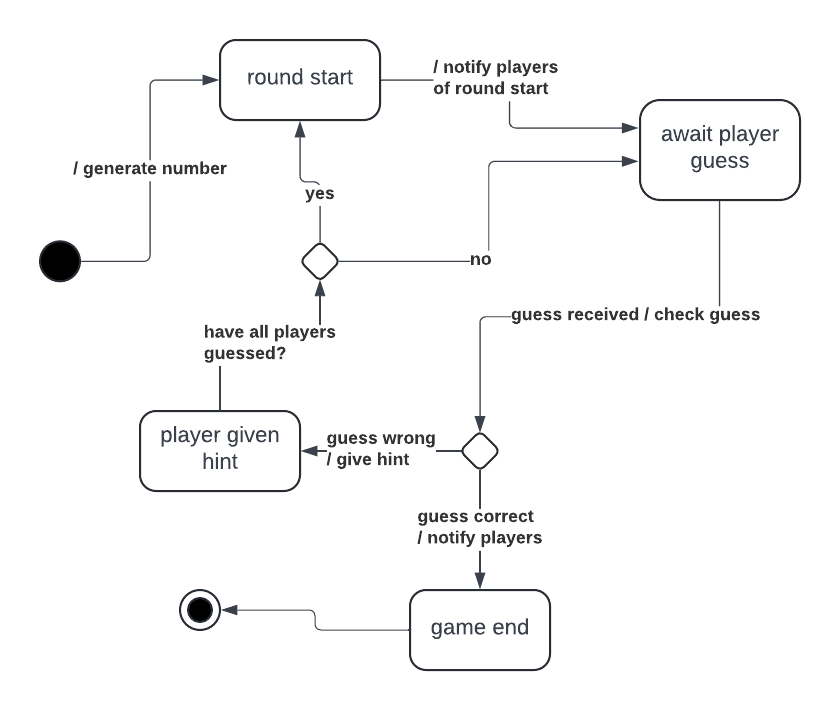
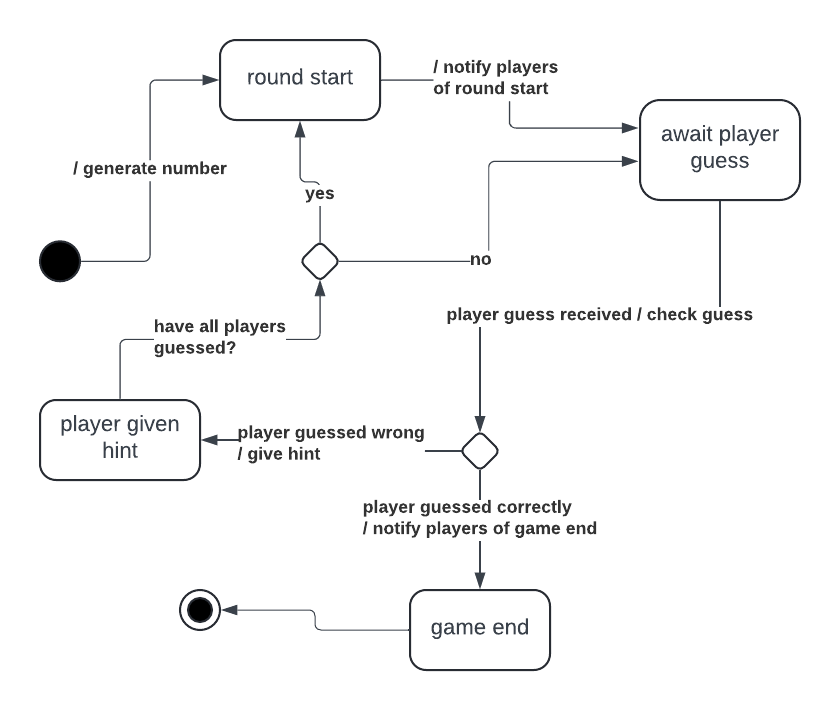
deadlocks fixed, updated script, updated report

diff --git a/Assignment-03/part3/doc/report/main.tex b/Assignment-03/part3/doc/report/main.tex
@@ -51,7 +51,7 @@ Andrea Biagini
 
 \tableofcontents
 \listoffigures
-\listoftables
+% \listoftables
 
 \newpage
 \pagenumbering{arabic} %reset numbering to normal for the main content
@@ -137,10 +137,22 @@ The player channels receive messages in three different forms:
 Where \verb|<hint>| is the hint from the oracle and can assume the value of \verb|higher| or \verb|lower| 
  and \verb|<playerStatus>| communicates to the player if they are the winner or not and can assume the value of \verb|winner| or \verb|loser|.
 
-\section{Deadlock preventions}
+\chapter{Deadlock preventions}
 
 Given that a message might be sent on a channel when no routine is listening on that channel, to prevent deadlocks and message loss, the channels have
  been initialized as buffered channels.
+
+A previous player finite state machine presented a deadlock opportunity:
+
+\begin{figure}
+    \centering
+    \includegraphics{playerwrongSD.png}
+    \caption{previous flawed state diagram of a player}
+    \label{fig:playerwrongSD}
+\end{figure}
+
+With this beheviour once the player had attempted a guess, it no longer listened for the game over message. This made it so that a player could entries
+ deadlock when the game ended. The improved design (\ref{fig:playerSD}) fixed this flaw.
 
 \chapter{Usage}
 The program can be run from the command line using the command:
@@ -157,7 +169,7 @@ Where \verb|<nPlayers>| is the number of players.
 
 Where \verb|<maxValue>| is the max value for the number to be guessed.
 
-The program can also be run using either methods by running the given bash script:
+The program can also be run using either methods by executing the given bash script:
 \begin{lstlisting}
     $ ./runGame
 \end{lstlisting}
@@ -166,8 +178,12 @@ The program can also be run using either methods by running the given bash scrip
 \end{lstlisting}
 
 \chapter{Conclusions}
-The go routine and channel constructs of the go language give supply an easy to use architecture for message oriented concurrency. Aided by the efficent Implementation
- of the go language, these simple yet powerfull abstractions allow to easily define complex beheviours in an intuitive and readable manner.
+The go routine and channel constructs of the go language give supply an easy to use architecture for message oriented concurrency. Aided by the efficent
+ implementation of the go language, these simple yet powerfull abstractions allow to easily define complex beheviours in an intuitive
+ and readable manner. 
+
+A more refined version of this game could take into account deeper syncronization requirements, such as imposing that the players should all
+ be ready to submit their guess at the same time or that the player's go routines should terminate before the oracle go routine.
 
 \bibliographystyle{plain}
 \bibliography{References}

diff --git a/Assignment-03/part3/src/go/player.go b/Assignment-03/part3/src/go/player.go
@@ -19,17 +19,15 @@ func Player(playerChannel chan string, oracleChannel chan string, playerId int, 
 	for {
 		switch currentState {
 		case awatingRoundStart:
-			playerLog(playerId, "awaiting round start message")
+			playerLog(playerId, "listening for messages")
 
 			//receiving message
-			header, _ := processMessage(playerChannel)
+			header, body := processMessage(playerChannel)
 
-			playerLog(playerId, "round start message received, sending guess")
-			//the following switch case is useless as it only has one case
-			//it is present to improve code readability
+			playerLog(playerId, "message received")
+
 			switch header {
 			case "roundStart":
-
 				currentGuess = generateRandomNumber(upperBoundry, lowerBoundry)
 
 				playerLog(playerId, fmt.Sprintf("attempting to guess with value %d", currentGuess))
@@ -37,14 +35,21 @@ func Player(playerChannel chan string, oracleChannel chan string, playerId int, 
 				sendGuess(oracleChannel, currentGuess, playerId)
 
 				currentState = awaitingVerdict
+
+			case "gameover":
+				processGameOver(playerId, body)
+
+				done <- true
+
+				return
 			}
 		case awaitingVerdict:
-			playerLog(playerId, "awaiting verdict")
+			playerLog(playerId, "listening for messages")
 
 			//receiving message
 			header, body := processMessage(playerChannel)
 
-			playerLog(playerId, "verdict recieved")
+			playerLog(playerId, "message received")
 
 			//processing response
 			switch header {
@@ -61,14 +66,7 @@ func Player(playerChannel chan string, oracleChannel chan string, playerId int, 
 				currentState = awatingRoundStart
 
 			case "gameover":
-				switch body {
-				case "winner":
-				playerLog(playerId, "hurray, I win!")
-				
-				case "loser":
-				playerLog(playerId, "Oh no, I lost")
-
-				}
+				processGameOver(playerId, body)
 
 				done <- true
 
@@ -80,6 +78,17 @@ func Player(playerChannel chan string, oracleChannel chan string, playerId int, 
 
 func sendGuess(oracleChannel chan string, guess int, playerId int) {
 	oracleChannel <- fmt.Sprintf("%d : %d", playerId, guess)
+}
+
+func processGameOver( playerId int, result string) {
+	switch result {
+	case "winner":
+	playerLog(playerId, "hurray, I win!")
+	
+	case "loser":
+	playerLog(playerId, "Oh no, I lost")
+
+	}
 }
 
 func playerLog(playerId int, msg string) {

diff --git a/Assignment-03/part3/src/go/oracle.go b/Assignment-03/part3/src/go/oracle.go
@@ -107,20 +107,14 @@ func notifyPlayers(playerChannels []chan string) {
 func notifyGameOver(winningPlayerNumber int, playerChannels []chan string) {
 	winningPlayerIndex := winningPlayerNumber - 1
 
-	oracleLog("inside notify game over")
-
 	for i := range playerChannels {
 		oracleLog(fmt.Sprintf("Notifying player %d", i+1))
 		if i == winningPlayerIndex {
-			playerChannels[i] <- "gameOver : winner"
-			oracleLog(fmt.Sprintf("Player %d is the winner", i+1))
+			playerChannels[i] <- "gameover : winner"
 		} else {
-			playerChannels[i] <- "gameOver : loser"
-			oracleLog(fmt.Sprintf("Player %d is a loser", i+1))
+			playerChannels[i] <- "gameover : loser"
 		}
 	}
-
-	oracleLog("finished notify game over")
 }
 
 func giveHint(playerChannel chan string, playerGuess int, secretNumber int) {
